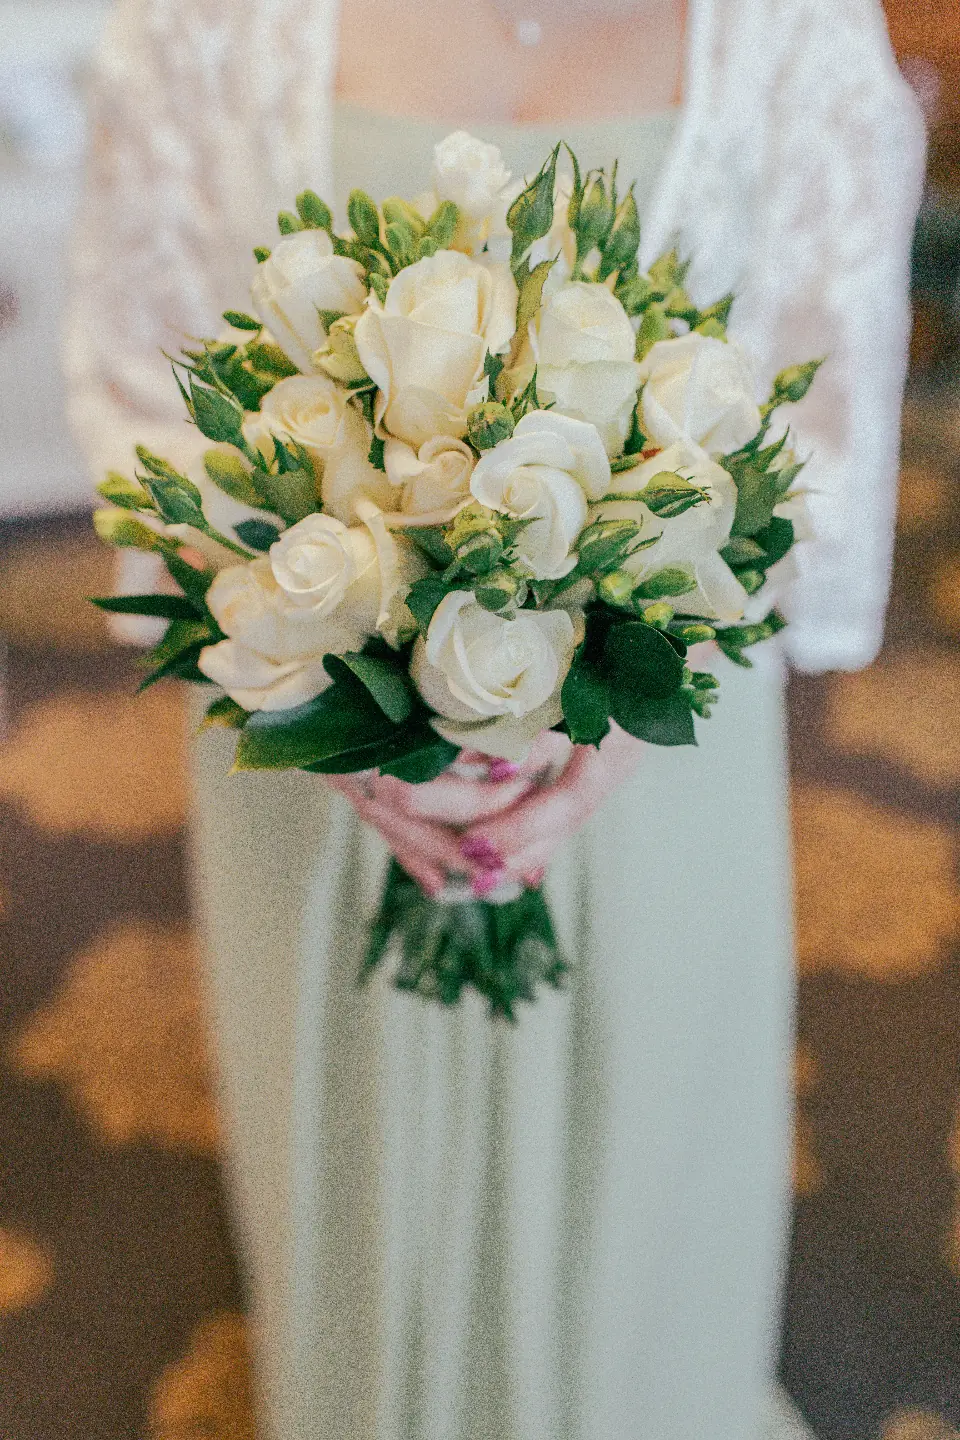
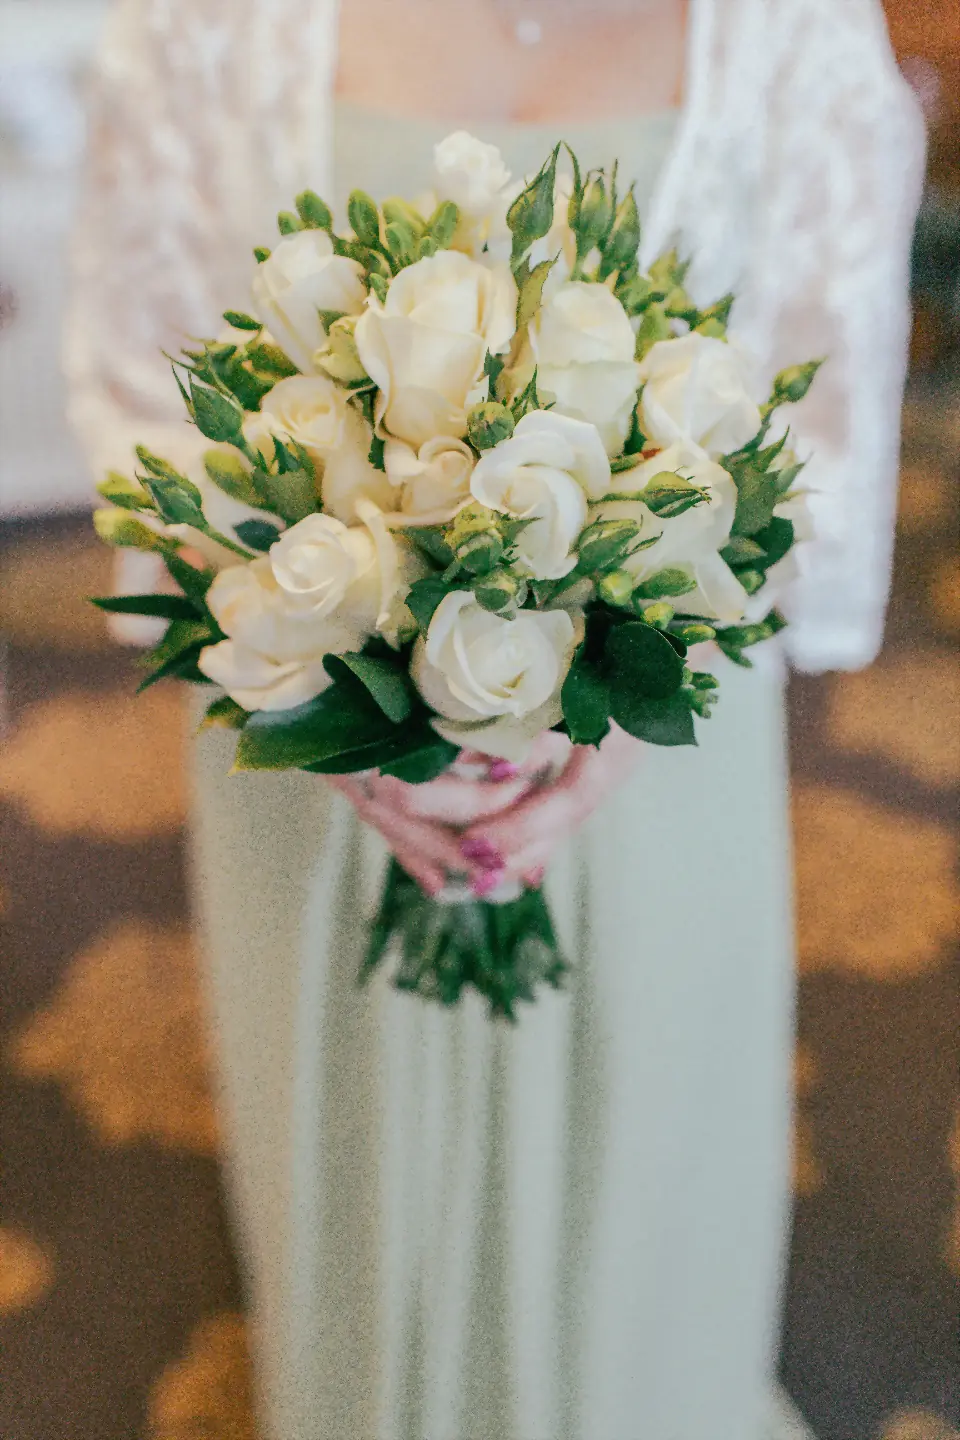
Arena: Zwischenstand der Demo-Websites (in Arbeit)
Claude-Session: https://claude.ai/code/session_01QxRycqPMAF19VWsBzEJjGU

diff --git a/arena/tattoo-schwarzstich/assets/img/BILDNACHWEIS.md b/arena/tattoo-schwarzstich/assets/img/BILDNACHWEIS.md
@@ -1,0 +1,23 @@
+# Bildnachweis
+
+Alle Fotos: StockSnap.io, Lizenz CC0 (gemeinfrei, keine Namensnennung nötig). Platzhalter für die Demo – vor einem echten Einsatz durch eigene Fotos des Betriebs ersetzen.
+
+Jede Datei liegt in zwei Breiten vor: `name-960.webp` und `name-480.webp` (für `srcset`).
+
+| Datei | Größe (960er) | Motiv | Quelle |
+|---|---|---|---|
+| `feder` | 960x721 | Pen Ink | https://stocksnap.io/photo/pen-ink-V8A98C0U96 |
+| `fuss` | 960x640 | Artist Tattoo | https://stocksnap.io/photo/artist-tattoo-SSTCSTBF7R |
+| `hero` | 960x640 | People Man | https://stocksnap.io/photo/people-man-EK8M984A33 |
+| `molekuel` | 960x640 | Artist Tattoo | https://stocksnap.io/photo/artist-tattoo-RDXQXHECLD |
+| `p-blumen` | 960x640 | Woman Tattoo | https://stocksnap.io/photo/woman-tattoo-YN0MGJ3JJQ |
+| `p-ellbogen` | 960x640 | Tattoo Ink | https://stocksnap.io/photo/tattoo-ink-6D408625FE |
+| `p-handgelenk` | 960x640 | Hands Ring | https://stocksnap.io/photo/hands-ring-S5UT5T2IE3 |
+| `p-kaffee` | 960x640 | Woman Tattoo | https://stocksnap.io/photo/woman-tattoo-3SMUGEZ3YU |
+| `p-oktopus` | 960x640 | Tattoo Art | https://stocksnap.io/photo/tattoo-art-C60DNBUMJT |
+| `p-rakete` | 960x640 | Hand Sign | https://stocksnap.io/photo/hand-sign-BPQSX1BQTF |
+| `p-ruecken` | 960x1242 | Woman Tattoo | https://stocksnap.io/photo/woman-tattoo-TDGBL3YH9M |
+| `p-unterarme` | 960x640 | Hands Tattoo | https://stocksnap.io/photo/hands-tattoo-J57S0NR93C |
+| `p-weltkarte` | 960x640 | Map Tattoo | https://stocksnap.io/photo/map-tattoo-HBTMBXQX80 |
+| `stechen` | 960x640 | Hand Glove | https://stocksnap.io/photo/hand-glove-TDLHEX7SWH |
+| `tinte` | 960x1266 | Ink Trail | https://stocksnap.io/photo/ink-trail-QU4Y5UTZ4H |
